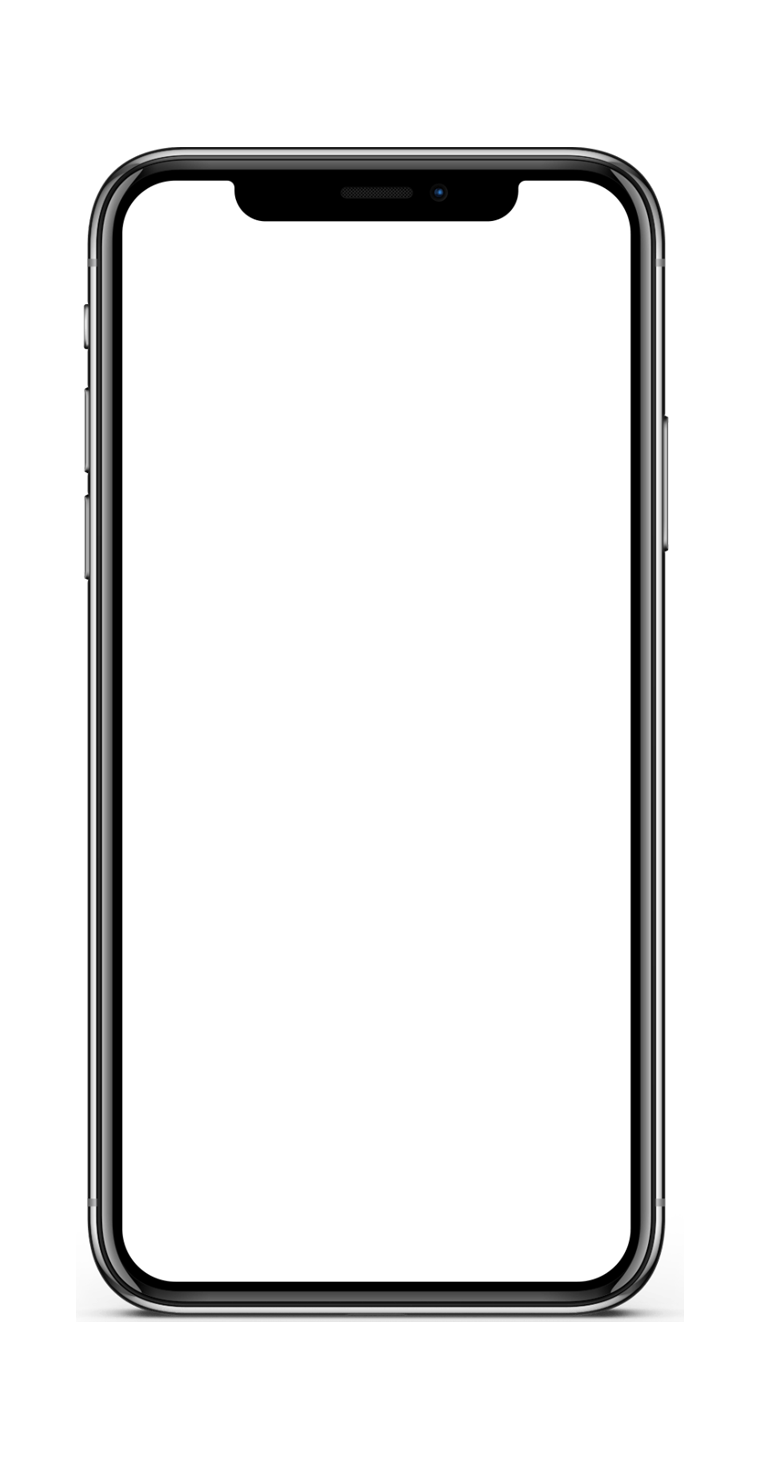
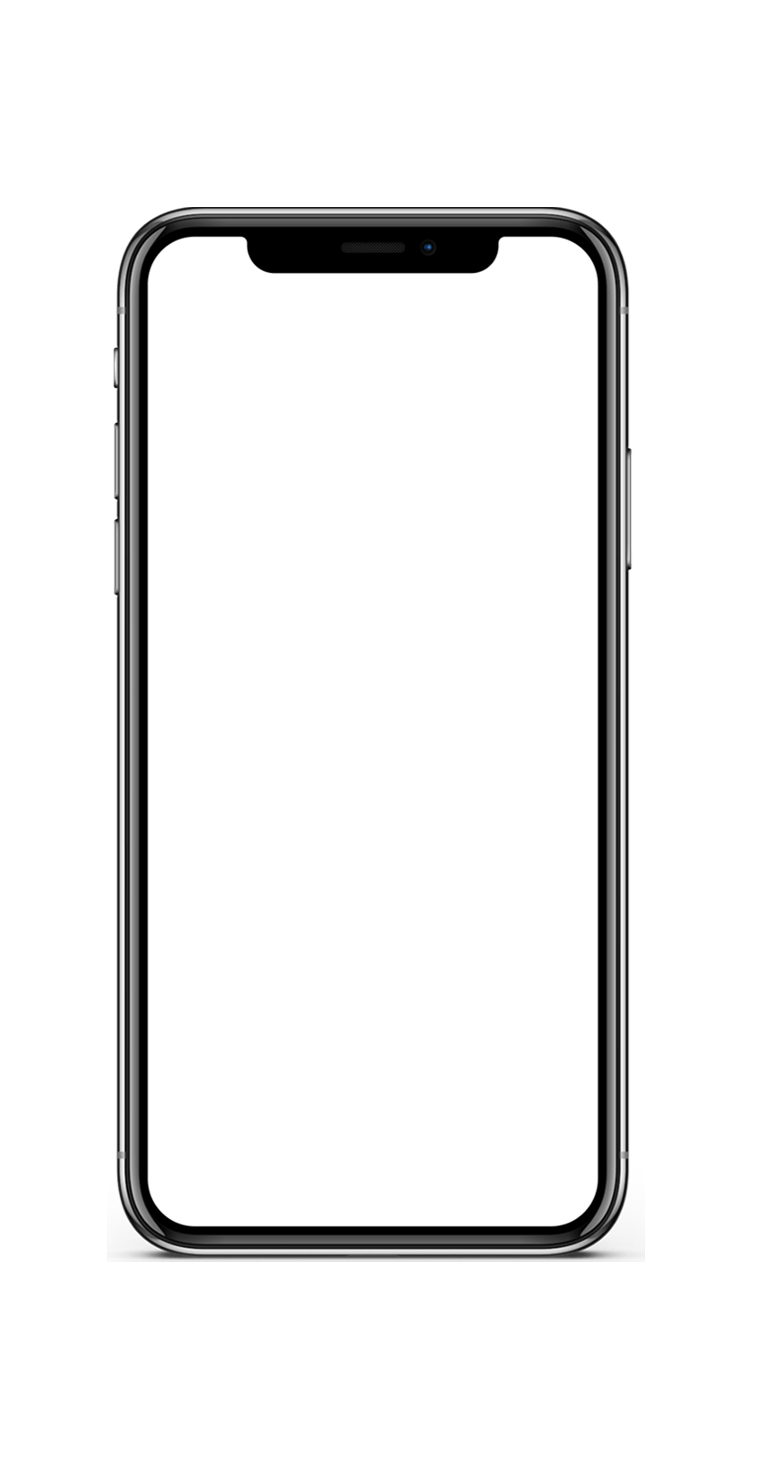
changes without iphone frame

Changed region(s): [[0.0908, 0.0919, 0.8776, 0.919]]

diff --git a/assets/css/style.css b/assets/css/style.css
@@ -4106,6 +4106,7 @@ a:visited {
   padding-top: 100px;
   padding-bottom: 170px;
   position: relative;
+  width: 100%;
 }
 
 .app-shot-one .container-fluid {
@@ -4127,14 +4128,11 @@ a:visited {
   left: 50.2%;
   -webkit-transform: translate(-50%, -50%);
   transform: translate(-50%, -50%);
-  background-image: url(../images/app-shots/trans_iphone_back.png);
-  background-position: center center;
   background-repeat: no-repeat;
-  width: 389px;
-  height: 690px;
   z-index: 99999 !important;
-  background-size: 102.5% auto;
+  background-size: 100% auto;
   box-shadow: 0px 0px 60px 0px rgba(5, 5, 6, 0.05);
+  
 }
 
 .page-id-1940 .app-shot-one .app-shot-one__carousel:before {
@@ -4180,6 +4178,10 @@ a:visited {
   transition: transform 0.4s ease, opacity 0.4s ease, background 0.4s ease;
   transition: transform 0.4s ease, opacity 0.4s ease, background 0.4s ease,
     -webkit-transform 0.4s ease;
+}
+
+.item{
+    width: 98.9%;
 }
 
 .app-shot-one .app-shot-one__carousel .owl-dots .owl-dot span::before {
@@ -4234,6 +4236,8 @@ a:visited {
   transition: transform 0.4s ease;
   transition: transform 0.4s ease, -webkit-transform 0.4s ease;
 }
+
+.app-shot-one
 
 /*--------------------------------------------------------------
 # Video

diff --git a/index.html b/index.html
@@ -305,7 +305,7 @@
                     "991": { "items": 4 },
                     "1000": { "items": 5 },
                     "1200": { "items": 5 }
-                }}'
+                } }'
           >
             <div class="item">
               <img src="assets/images/app-shots/Amplify(All).png" />
@@ -333,10 +333,10 @@
               <img src="assets/images/app-shots/Amplify(Plan).png" />
             </div>
             <div class="item">
-              <img src="assets/images/app-shots/Asset%20(withdraw%20).png" />
+              <img src="assets/images/app-shots/Amplify(All).png" />
             </div>
             <div class="item">
-              <img src="assets/images/app-shots/Home%20page1.png" />
+              <img src="assets/images/app-shots/Home%20page.png" />
             </div>
             <div class="item">
               <img

diff --git a/assets/css/responsive.css b/assets/css/responsive.css
@@ -145,6 +145,7 @@
     }
     .app-shot-one .app-shot-one__carousel::before {
         display: none;
+        width: calc(100%+10px);
     }
     .app-shot-one .app-shot-one__carousel {
         padding: 0;
